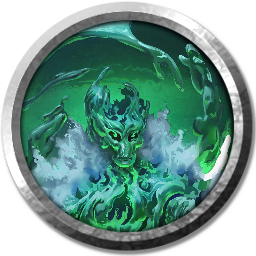
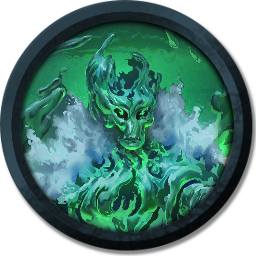
backup: 2024-01-31 15:44

diff --git a/The Nightmare Plague/Characters/Djinn/Auroris, the Shimmering Sentinel.md b/The Nightmare Plague/Characters/Djinn/Auroris, the Shimmering Sentinel.md
@@ -1,4 +1,4 @@
-![[Auroris.png]]
+![[Auroris_Token.png]]
 Auroris is a Crystal Djinn
 
 Djinn lineage of[[Dolomite (Dola)]]; and consequently: [[Bismuth Shatterborne]] and [[Jasper Shatterborne]]
